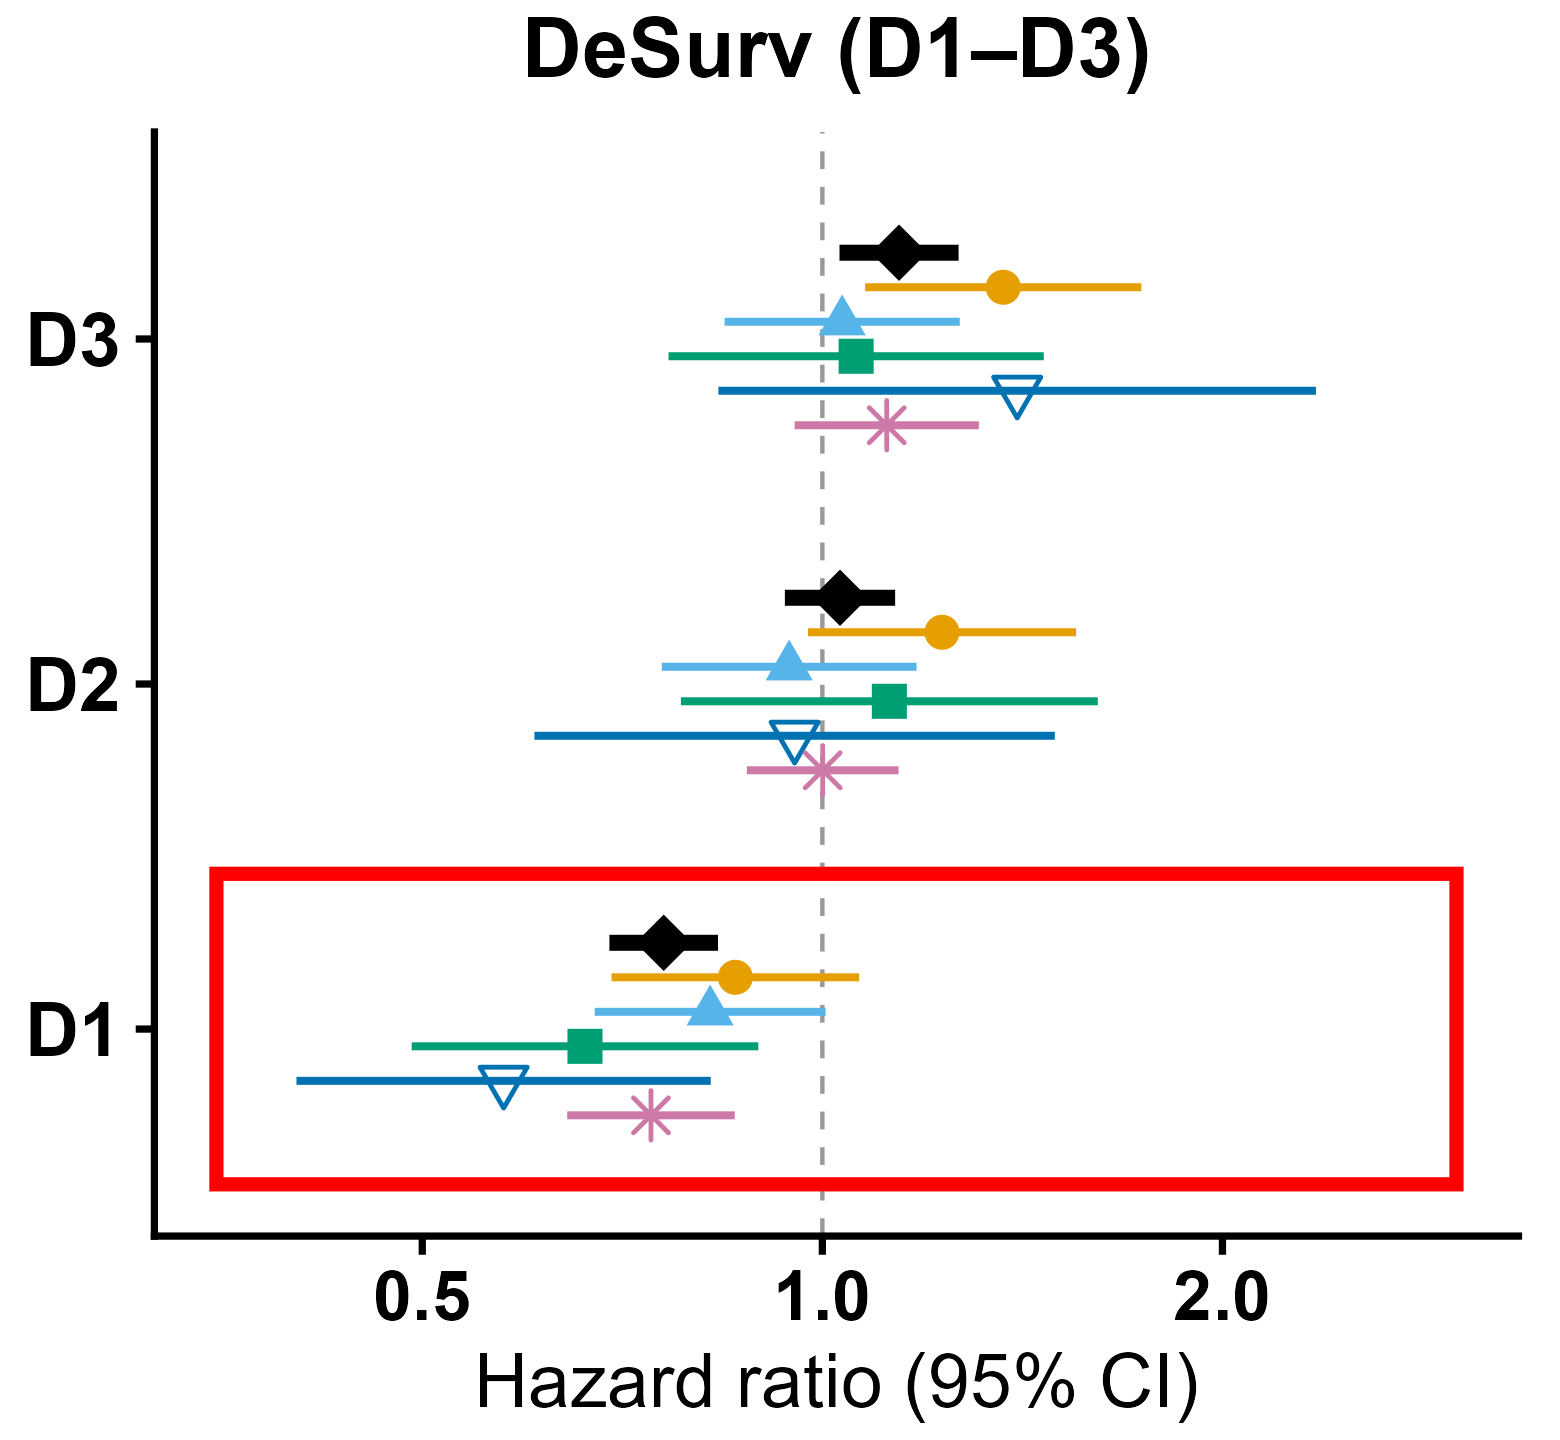
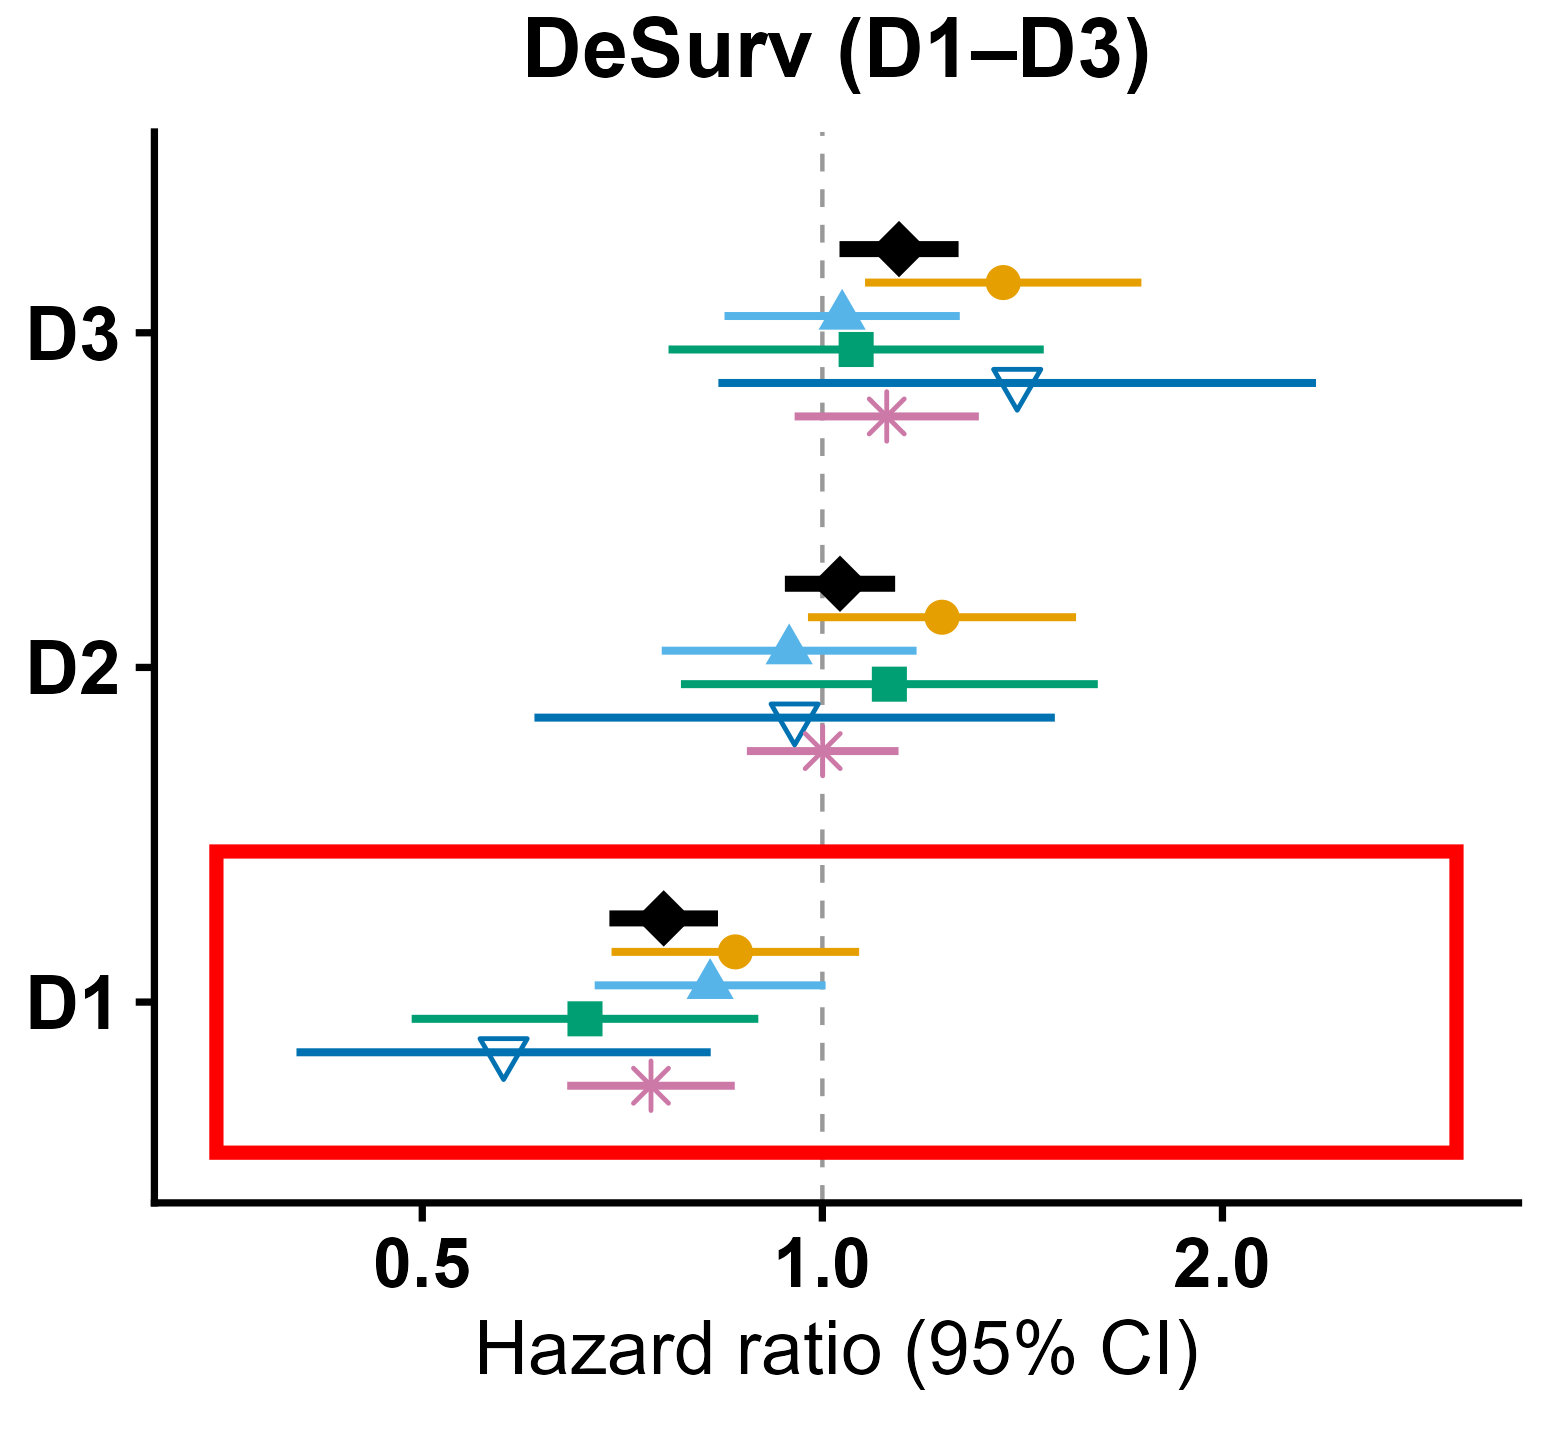
@ Fix Section 5 figure fit: forest x-axis clipping and KM overflow
- Forest panels: add bottom margin under the x-axis title, raise panels
  (top 120->100) and lower the legend strip so the opaque legend no longer
  covers the "Hazard ratio (95% CI)" labels.
- KM panels: save landscape-ish (5.8x5.2, aspect ~0.9) so each fills a
  half-column without running off the bottom of the slide; nudge the in-plot
  HR annotation down so its top line clears the panel border.

@

diff --git a/defense.html b/defense.html
@@ -350,10 +350,10 @@ Amber M. Young
 </section>
 <section id="d1-stays-prognostic-across-five-independent-cohorts" class="slide level2">
 <h2>D1 stays prognostic across five independent cohorts</h2>
-<p><img data-src="figures/defense/fig4_forest_nmf.png" class="absolute" style="top: 120px; left: 30px; width: 560px; "></p>
-<p><img data-src="figures/defense/fig4_forest_desurv.png" class="fragment absolute" style="top: 120px; left: 690px; width: 560px; "></p>
-<p><img data-src="figures/defense/fig4_forest_desurv_box.png" class="fragment absolute" style="top: 120px; left: 690px; width: 560px; "></p>
-<p><img data-src="figures/defense/fig4_forest_legend.png" class="absolute" style="left: 215px; bottom: 20px; width: 850px; "></p>
+<p><img data-src="figures/defense/fig4_forest_nmf.png" class="absolute" style="top: 100px; left: 30px; width: 560px; "></p>
+<p><img data-src="figures/defense/fig4_forest_desurv.png" class="fragment absolute" style="top: 100px; left: 690px; width: 560px; "></p>
+<p><img data-src="figures/defense/fig4_forest_desurv_box.png" class="fragment absolute" style="top: 100px; left: 690px; width: 560px; "></p>
+<p><img data-src="figures/defense/fig4_forest_legend.png" class="absolute" style="left: 215px; bottom: 8px; width: 850px; "></p>
 <aside class="notes">
 <p>The real test: does D1 transport? Five external cohorts (Dijk, Moffitt, both PACA-AU platforms, Puleo), scored purely by projection Z = W̃ᵀX_new — no retraining, no validation survival used in the fit. Standard NMF (left) has no factor with a clean, reproducible signal — the pooled estimates all straddle 1. DeSurv (click) is different: D1 (boxed) is protective and consistent — every cohort’s CI sits at or below 1, pooled HR ≈ 0.76. Supervision didn’t just reorganize the training factors; it produced a program that generalizes.</p>
 <style type="text/css">
